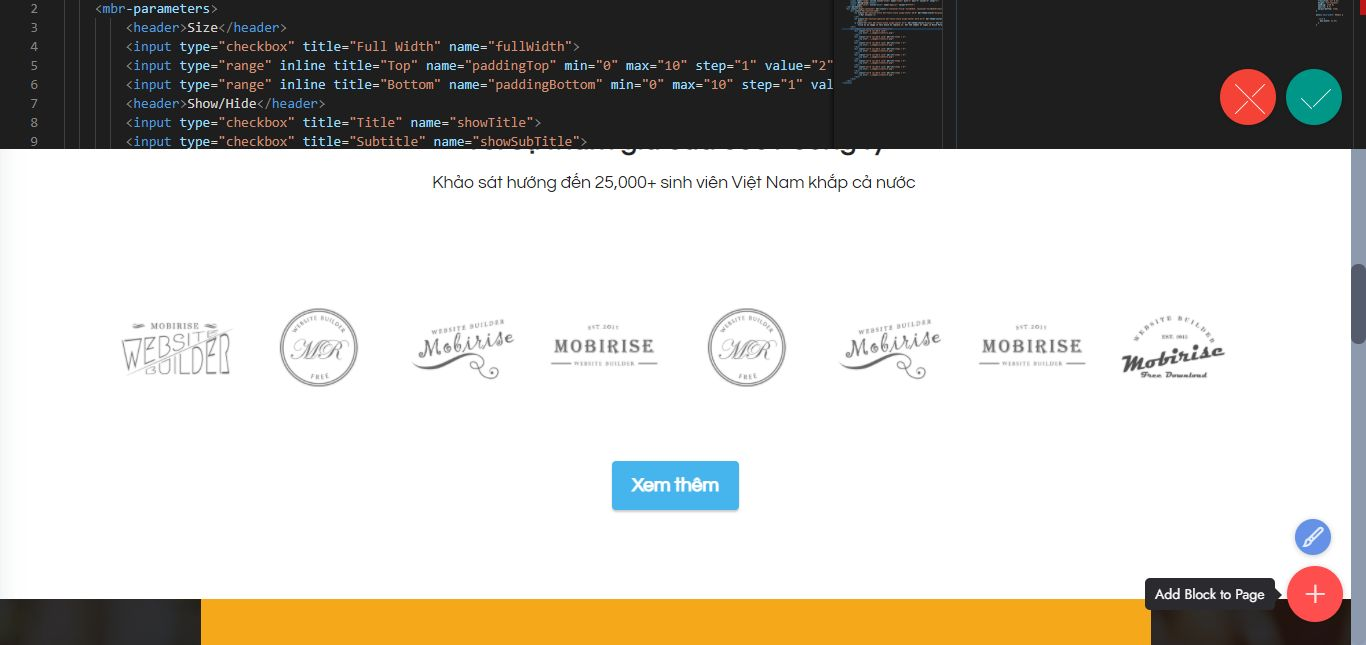
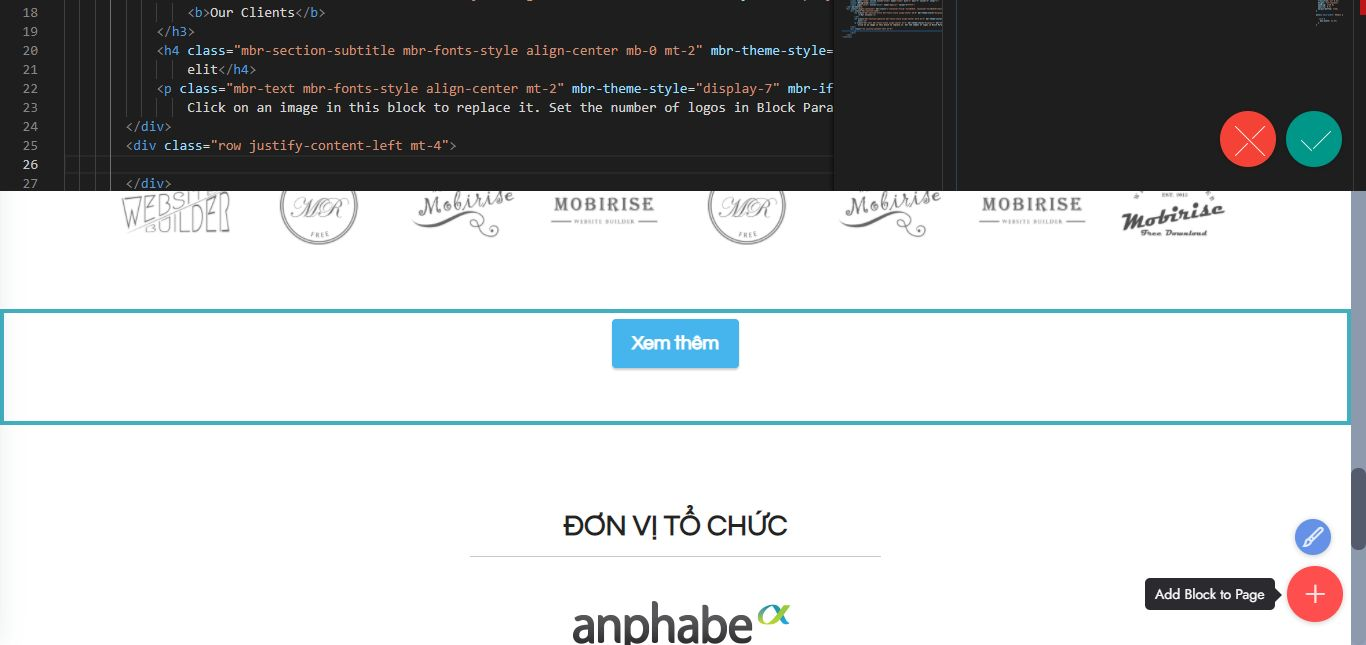
update

diff --git a/index.html b/index.html
@@ -68,8 +68,8 @@ if (
 <meta property="og:url" itemprop="url" content="https://employerofchoice.vn/"/>
 <meta name="title" property="og:title" content="Khảo sát Sinh viên Việt Nam 2022">
 <meta name="description" property="og:description" content="Khảo sát Sinh viên Việt Nam 2022">
-<meta name="twitter:image:src" content="https://employerofchoice.vn/assets/images/share.jpg">
-<meta property="og:image" content="https://employerofchoice.vn/assets/images/share.jpg">
+<meta name="twitter:image:src" content="https://employerofchoice.vn/assets/images/share2.jpg">
+<meta property="og:image" content="https://employerofchoice.vn/assets/images/share2.jpg">
 </head>
 <body>
   <!-- Google Tag Manager (noscript) -->
@@ -178,68 +178,6 @@ height="0" width="0" style="display:none;visibility:hidden"></iframe></noscript>
     </div>
 </section>
 
-<section data-bs-version="5.1" class="content4 cid-sPbRALvVIc" id="thongtindoanhnghiep">
-    
-    
-    <div class="container">
-        <div class="row justify-content-center">
-            <div class="title col-md-12 col-lg-10">
-                <h3 class="mbr-section-title mbr-fonts-style align-center mb-2 display-5"><strong>Với sự tham gia của 350+ công ty</strong></h3>
-                <h4 class="mbr-section-subtitle align-center mbr-fonts-style mb-4 display-7">Khảo sát hướng đến 25,000+ sinh viên Việt Nam khắp cả nước&nbsp;</h4>
-                
-            </div>
-        </div>
-    </div>
-</section>
-
-<section data-bs-version="5.1" class="company-logos cid-sPbUyHSqrw" id="clients1-e">
-    
-    <div class="images-container container">
-        <div class="mbr-section-head">
-            
-            
-            
-        </div>
-        <div class="row justify-content-left mt-4">
-            <div class="col-6 col-md-3 card">
-                <img src="assets/images/1.png">
-            </div>
-            <div class="col-6 col-md-3 card">
-                <img src="assets/images/2.png">
-            </div>
-            <div class="col-6 col-md-3 card">
-                <img src="assets/images/3.png">
-            </div>
-            <div class="col-6 col-md-3 card">
-                <img src="assets/images/4.png">
-            </div>
-            <div class="col-6 col-md-3 card">
-                <img src="assets/images/2.png">
-            </div>
-            <div class="col-6 col-md-3 card">
-                <img src="assets/images/3.png">
-            </div>
-            <div class="col-6 col-md-3 card">
-                <img src="assets/images/4.png">
-            </div>
-            <div class="col-6 col-md-3 card">
-                <img src="assets/images/5.png">
-            </div>
-        </div>
-    </div>
-</section>
-
-<section data-bs-version="5.1" class="content11 cid-sPLHTCDlhn" id="content11-2f">
-    
-    <div class="container">
-        <div class="row justify-content-center">
-            <div class="col-md-12 col-lg-10">
-                <div class="mbr-section-btn align-center"><a class="btn btn-info display-4" href="https://survey.employerofchoice.vn/vi/company-list">Xem thêm</a></div>
-            </div>
-        </div>
-    </div>
-</section>
-
 <section data-bs-version="5.1" class="header6 cid-sPzXg56nly" id="vekhaosat">
 
     
@@ -276,15 +214,15 @@ height="0" width="0" style="display:none;visibility:hidden"></iframe></noscript>
         <div class="row justify-content-center">
             <div class="col-12 col-md-10">
                 
-                <div id="bootstrap-accordion_8" class="panel-group accordionStyles accordion" role="tablist" aria-multiselectable="true">
+                <div id="bootstrap-accordion_5" class="panel-group accordionStyles accordion" role="tablist" aria-multiselectable="true">
                     <div class="card mb-3">
                         <div class="card-header" role="tab" id="headingOne">
-                            <a role="button" class="panel-title collapsed" data-toggle="collapse" data-bs-toggle="collapse" data-core="" href="#collapse1_8" aria-expanded="false" aria-controls="collapse1">
+                            <a role="button" class="panel-title collapsed" data-toggle="collapse" data-bs-toggle="collapse" data-core="" href="#collapse1_5" aria-expanded="false" aria-controls="collapse1">
                                 <h6 class="panel-title-edit mbr-fonts-style mb-0 display-4"><strong>Đối tượng tham gia khảo sát Thương Hiệu Nhà Tuyển Dụng Hấp Dẫn Nhất Với Sinh Viên Việt Nam gồm những ai?</strong></h6>
                                 <span class="sign mbr-iconfont mbri-arrow-down"></span>
                             </a>
                         </div>
-                        <div id="collapse1_8" class="panel-collapse noScroll collapse" role="tabpanel" aria-labelledby="headingOne" data-parent="#accordion" data-bs-parent="#bootstrap-accordion_8">
+                        <div id="collapse1_5" class="panel-collapse noScroll collapse" role="tabpanel" aria-labelledby="headingOne" data-parent="#accordion" data-bs-parent="#bootstrap-accordion_5">
                             <div class="panel-body">
                                 <p class="mbr-fonts-style panel-text display-7">Khảo sát Thương Hiệu Nhà Tuyển Dụng Hấp Dẫn Nhất Với Sinh Viên Việt Nam hướng đến các bạn sinh viên từ năm nhất đến năm cuối tại tất cả các trường Đại học, Cao đẳng trên cả nước. </p>
                             </div>
@@ -292,12 +230,12 @@ height="0" width="0" style="display:none;visibility:hidden"></iframe></noscript>
                     </div>
                     <div class="card mb-3">
                         <div class="card-header" role="tab" id="headingOne">
-                            <a role="button" class="panel-title collapsed" data-toggle="collapse" data-bs-toggle="collapse" data-core="" href="#collapse2_8" aria-expanded="false" aria-controls="collapse2">
+                            <a role="button" class="panel-title collapsed" data-toggle="collapse" data-bs-toggle="collapse" data-core="" href="#collapse2_5" aria-expanded="false" aria-controls="collapse2">
                                 <h6 class="panel-title-edit mbr-fonts-style mb-0 display-4"><strong>Mục đích của khảo sát này là gì?</strong></h6>
                                 <span class="sign mbr-iconfont mbri-arrow-down"></span>
                             </a>
                         </div>
-                        <div id="collapse2_8" class="panel-collapse noScroll collapse" role="tabpanel" aria-labelledby="headingOne" data-parent="#accordion" data-bs-parent="#bootstrap-accordion_8">
+                        <div id="collapse2_5" class="panel-collapse noScroll collapse" role="tabpanel" aria-labelledby="headingOne" data-parent="#accordion" data-bs-parent="#bootstrap-accordion_5">
                             <div class="panel-body">
                                 <p class="mbr-fonts-style panel-text display-7">Khảo sát Thương Hiệu Nhà Tuyển Dụng Hấp Dẫn Nhất Với Sinh Viên Việt Nam nhằm đánh giá sức hấp dẫn của các doanh nghiệp tại thị trường Việt Nam trong mắt các bạn sinh viên trong tình hình mới. Bên cạnh đó, khảo sát cũng hi vọng nhận được chia sẻ chi tiết hơn về những thay đổi trong quá trình định hướng, các nguyện vọng và kỳ vọng của sinh viên Việt Nam cũng như sự sẵn sàng cho công việc đầu tiên sau hai năm ảnh hưởng bởi đại dịch.</p>
                                 <p class="mbr-fonts-style panel-text display-7">Câu trả lời của bạn sẽ đóng góp vào những phân tích quan trọng và cung cấp góc nhìn quý báu giúp doanh nghiệp xây dựng chiến lược và môi trường làm việc thu hút hơn cho chính các bạn, đồng thời quyết định kết quả danh sách những nơi làm việc hấp dẫn nhất với sinh viên Việt Nam 2022.</p>
@@ -306,12 +244,12 @@ height="0" width="0" style="display:none;visibility:hidden"></iframe></noscript>
                     </div>
                     <div class="card mb-3">
                         <div class="card-header" role="tab" id="headingOne">
-                            <a role="button" class="panel-title collapsed" data-toggle="collapse" data-bs-toggle="collapse" data-core="" href="#collapse3_8" aria-expanded="false" aria-controls="collapse3">
+                            <a role="button" class="panel-title collapsed" data-toggle="collapse" data-bs-toggle="collapse" data-core="" href="#collapse3_5" aria-expanded="false" aria-controls="collapse3">
                                 <h6 class="panel-title-edit mbr-fonts-style mb-0 display-4"><strong>Khảo sát này có an toàn và bảo mật không?</strong></h6>
                                 <span class="sign mbr-iconfont mbri-arrow-down"></span>
                             </a>
                         </div>
-                        <div id="collapse3_8" class="panel-collapse noScroll collapse" role="tabpanel" aria-labelledby="headingOne" data-parent="#accordion" data-bs-parent="#bootstrap-accordion_8">
+                        <div id="collapse3_5" class="panel-collapse noScroll collapse" role="tabpanel" aria-labelledby="headingOne" data-parent="#accordion" data-bs-parent="#bootstrap-accordion_5">
                             <div class="panel-body">
                                 <p class="mbr-fonts-style panel-text display-7">Khảo sát Thương Hiệu Nhà Tuyển Dụng Hấp Dẫn Nhất Với Sinh Viên Việt Nam do Anphabe thực hiện trên diện rộng, hoàn toàn độc lập. Mọi câu trả lời trong khảo sát đều được áp dụng quy trình bảo mật thông tin chặt chẽ. </p>
                                 <p class="mbr-fonts-style panel-text display-7">Khảo sát này được bảo trợ bởi Phòng thương mại và công thương Việt Nam (VCCI). Mô hình khảo sát và phương pháp đánh giá của chương trình khảo sát hằng năm đều được kiểm chứng bởi đơn vị thứ ba là công ty nghiên cứu thị trường Intage Việt Nam. </p>
@@ -321,12 +259,12 @@ height="0" width="0" style="display:none;visibility:hidden"></iframe></noscript>
                     </div>
                     <div class="card mb-3">
                         <div class="card-header" role="tab" id="headingOne">
-                            <a role="button" class="panel-title collapsed" data-toggle="collapse" data-bs-toggle="collapse" data-core="" href="#collapse4_8" aria-expanded="false" aria-controls="collapse4">
+                            <a role="button" class="panel-title collapsed" data-toggle="collapse" data-bs-toggle="collapse" data-core="" href="#collapse4_5" aria-expanded="false" aria-controls="collapse4">
                                 <h6 class="panel-title-edit mbr-fonts-style mb-0 display-4"><strong>Quà tặng của khảo sát là gì?</strong></h6>
                                 <span class="sign mbr-iconfont mbri-arrow-down"></span>
                             </a>
                         </div>
-                        <div id="collapse4_8" class="panel-collapse noScroll collapse" role="tabpanel" aria-labelledby="headingOne" data-parent="#accordion" data-bs-parent="#bootstrap-accordion_8">
+                        <div id="collapse4_5" class="panel-collapse noScroll collapse" role="tabpanel" aria-labelledby="headingOne" data-parent="#accordion" data-bs-parent="#bootstrap-accordion_5">
                             <div class="panel-body">
                                 <p class="mbr-fonts-style panel-text display-7">Đáp viên hoàn thành Khảo sát hợp lệ sẽ nhận ngay một (01) mã rút thăm may mắn, với cơ hội sở hữu:</p>
                                 <ul class="list mbr-fonts-style display-7">
@@ -339,12 +277,12 @@ height="0" width="0" style="display:none;visibility:hidden"></iframe></noscript>
                     </div>
                     <div class="card mb-3">
                         <div class="card-header" role="tab" id="headingOne">
-                            <a role="button" class="panel-title collapsed" data-toggle="collapse" data-bs-toggle="collapse" data-core="" href="#collapse5_8" aria-expanded="false" aria-controls="collapse5">
+                            <a role="button" class="panel-title collapsed" data-toggle="collapse" data-bs-toggle="collapse" data-core="" href="#collapse5_5" aria-expanded="false" aria-controls="collapse5">
                                 <h6 class="panel-title-edit mbr-fonts-style mb-0 display-4"><strong>Điều khoản chương trình rút thăm may mắn thế nào?</strong></h6>
                                 <span class="sign mbr-iconfont mbri-arrow-down"></span>
                             </a>
                         </div>
-                        <div id="collapse5_8" class="panel-collapse noScroll collapse" role="tabpanel" aria-labelledby="headingOne" data-parent="#accordion" data-bs-parent="#bootstrap-accordion_8">
+                        <div id="collapse5_5" class="panel-collapse noScroll collapse" role="tabpanel" aria-labelledby="headingOne" data-parent="#accordion" data-bs-parent="#bootstrap-accordion_5">
                             <div class="panel-body">
                                 <p class="mbr-fonts-style panel-text display-7">Đáp viên may mắn sẽ được hệ thống lựa chọn ngẫu nhiên và gửi thông báo về quà tặng qua email đã đăng ký khi tham gia khảo sát. Đáp viên may mắn vui lòng xác nhận thông tin nhận quà qua email trong vòng 03 ngày làm việc kể từ khi nhận thông báo trúng thưởng của Ban tổ chức.</p>
                                 <p class="mbr-fonts-style panel-text display-7">Việc quay số may mắn được thực hiện vào thứ 6 hằng tuần và kết quả được thông báo trên kênh Facebook chính thức của Anphabe: <a href="https://www.facebook.com/anphabe" class="text-primary" target="_blank">https://www.facebook.com/anphabe</a></p>
@@ -360,12 +298,12 @@ height="0" width="0" style="display:none;visibility:hidden"></iframe></noscript>
                     </div>
                     <div class="card mb-3">
                         <div class="card-header" role="tab" id="headingOne">
-                            <a role="button" class="panel-title collapsed" data-toggle="collapse" data-bs-toggle="collapse" data-core="" href="#collapse6_8" aria-expanded="false" aria-controls="collapse6">
+                            <a role="button" class="panel-title collapsed" data-toggle="collapse" data-bs-toggle="collapse" data-core="" href="#collapse6_5" aria-expanded="false" aria-controls="collapse6">
                                 <h6 class="panel-title-edit mbr-fonts-style mb-0 display-4"><strong>Đối tượng tham gia chương trình rút thăm may mắn là những ai?</strong></h6>
                                 <span class="sign mbr-iconfont mbri-arrow-down"></span>
                             </a>
                         </div>
-                        <div id="collapse6_8" class="panel-collapse noScroll collapse" role="tabpanel" aria-labelledby="headingOne" data-parent="#accordion" data-bs-parent="#bootstrap-accordion_8">
+                        <div id="collapse6_5" class="panel-collapse noScroll collapse" role="tabpanel" aria-labelledby="headingOne" data-parent="#accordion" data-bs-parent="#bootstrap-accordion_5">
                             <div class="panel-body">
                                 <p class="mbr-fonts-style panel-text display-7">
                                     Tất cả đáp viên hoàn thành khảo sát hợp lệ đều có cơ hội tham gia chương trình quay số may mắn diễn ra hàng tuần và hàng tháng. Đáp viên may mắn nhận giải thưởng tuần vẫn có cơ hội tham dự và trúng giải thưởng tháng.</p>
@@ -374,12 +312,12 @@ height="0" width="0" style="display:none;visibility:hidden"></iframe></noscript>
                     </div>
                     <div class="card mb-3">
                         <div class="card-header" role="tab" id="headingOne">
-                            <a role="button" class="panel-title collapsed" data-toggle="collapse" data-bs-toggle="collapse" data-core="" href="#collapse7_8" aria-expanded="false" aria-controls="collapse7">
+                            <a role="button" class="panel-title collapsed" data-toggle="collapse" data-bs-toggle="collapse" data-core="" href="#collapse7_5" aria-expanded="false" aria-controls="collapse7">
                                 <h6 class="panel-title-edit mbr-fonts-style mb-0 display-4"><strong>Vì sao hoàn thành khảo sát nhưng chưa nhận được email?</strong></h6>
                                 <span class="sign mbr-iconfont mbri-arrow-down"></span>
                             </a>
                         </div>
-                        <div id="collapse7_8" class="panel-collapse noScroll collapse" role="tabpanel" aria-labelledby="headingOne" data-parent="#accordion" data-bs-parent="#bootstrap-accordion_8">
+                        <div id="collapse7_5" class="panel-collapse noScroll collapse" role="tabpanel" aria-labelledby="headingOne" data-parent="#accordion" data-bs-parent="#bootstrap-accordion_5">
                             <div class="panel-body">
                                 <p class="mbr-fonts-style panel-text display-7">Sau khi hoàn thành khảo sát hợp lệ, Anphabe sẽ gửi thông báo kết quả và mã rút thăm may mắn qua email mà đáp viên đã đăng ký ở bước hoàn thành khảo sát. Bạn kiểm tra trong hộp thư rác (spam), quảng cáo và có thể tìm kiếm từ khóa "Anphabe Team" trong hộp email.</p>
                                 <p class="mbr-fonts-style panel-text display-7">Nếu vẫn chưa thấy, bạn vui lòng để lại thông tin email qua hộp thư trên Fanpage, Anphabe sẽ kiểm tra hệ thống và hỗ trợ bạn chi tiết.</p>
@@ -387,6 +325,45 @@ height="0" width="0" style="display:none;visibility:hidden"></iframe></noscript>
                         </div>
                     </div>
                 </div>
+            </div>
+        </div>
+    </div>
+</section>
+
+<section data-bs-version="5.1" class="content4 cid-sPbRALvVIc" id="thongtindoanhnghiep">
+    
+    
+    <div class="container">
+        <div class="row justify-content-center">
+            <div class="title col-md-12 col-lg-10">
+                <h3 class="mbr-section-title mbr-fonts-style align-center mb-2 display-5"><strong>Với sự tham gia của 350+ công ty</strong></h3>
+                <h4 class="mbr-section-subtitle align-center mbr-fonts-style mb-4 display-7">Khảo sát hướng đến 25,000+ sinh viên Việt Nam khắp cả nước&nbsp;</h4>
+                
+            </div>
+        </div>
+    </div>
+</section>
+
+<section data-bs-version="5.1" class="company-logos cid-sPbUyHSqrw" id="clients1-e">
+    
+    <div class="images-container container">
+        <div class="mbr-section-head">
+            
+            
+            
+        </div>
+        <div class="row justify-content-left mt-4">
+            
+        </div>
+    </div>
+</section>
+
+<section data-bs-version="5.1" class="content11 cid-sPLHTCDlhn" id="content11-2f">
+    
+    <div class="container">
+        <div class="row justify-content-center">
+            <div class="col-md-12 col-lg-10">
+                <div class="mbr-section-btn align-center"><a class="btn btn-info display-4" href="https://survey.employerofchoice.vn/vi/company-list">Xem thêm</a></div>
             </div>
         </div>
     </div>

diff --git a/assets/mobirise/css/mbr-additional.css b/assets/mobirise/css/mbr-additional.css
@@ -1120,37 +1120,6 @@ a {
     padding: 2rem;
   }
 }
-.cid-sPbRALvVIc {
-  padding-top: 5rem;
-  padding-bottom: 0rem;
-  background-color: #ffffff;
-}
-.cid-sPbUyHSqrw {
-  padding-top: 2rem;
-  padding-bottom: 2rem;
-  background-color: #ffffff;
-}
-.cid-sPbUyHSqrw img {
-  width: 120px;
-  margin: auto;
-}
-.cid-sPbUyHSqrw .card {
-  transition: all 0.3s;
-  height: fit-content;
-  padding: 1rem 0;
-  opacity: 0.7;
-  margin-bottom: 1rem;
-}
-@media (min-width: 992px) {
-  .cid-sPbUyHSqrw .card {
-    max-width: 12.5%;
-  }
-}
-.cid-sPLHTCDlhn {
-  padding-top: 0rem;
-  padding-bottom: 5rem;
-  background-color: #ffffff;
-}
 .cid-sPzXg56nly {
   padding-top: 0;
   padding-bottom: 6rem;
@@ -1244,6 +1213,37 @@ a {
     padding-top: 3rem;
     padding-bottom: 0.15rem;
   }
+}
+.cid-sPbRALvVIc {
+  padding-top: 0rem;
+  padding-bottom: 0rem;
+  background-color: #ffffff;
+}
+.cid-sPbUyHSqrw {
+  padding-top: 2rem;
+  padding-bottom: 2rem;
+  background-color: #ffffff;
+}
+.cid-sPbUyHSqrw img {
+  width: 120px;
+  margin: auto;
+}
+.cid-sPbUyHSqrw .card {
+  transition: all 0.3s;
+  height: fit-content;
+  padding: 1rem 0;
+  opacity: 0.7;
+  margin-bottom: 1rem;
+}
+@media (min-width: 992px) {
+  .cid-sPbUyHSqrw .card {
+    max-width: 12.5%;
+  }
+}
+.cid-sPLHTCDlhn {
+  padding-top: 0rem;
+  padding-bottom: 3rem;
+  background-color: #ffffff;
 }
 .cid-sPc4eZQ7aa {
   padding-top: 5rem;

diff --git a/thongtinquatang.html b/thongtinquatang.html
@@ -67,8 +67,8 @@ if (
 <meta property="og:url" itemprop="url" content="https://employerofchoice.vn/"/>
 <meta name="title" property="og:title" content="Thông tin quà tặng | Khảo sát Sinh viên Việt Nam 2022">
 <meta name="description" property="og:description" content="Thông tin quà tặng | Khảo sát Sinh viên Việt Nam 2022">
-<meta name="twitter:image:src" content="https://employerofchoice.vn/assets/images/share.jpg">
-<meta property="og:image" content="https://employerofchoice.vn/assets/images/share.jpg">
+<meta name="twitter:image:src" content="https://employerofchoice.vn/assets/images/share2.jpg">
+<meta property="og:image" content="https://employerofchoice.vn/assets/images/share2.jpg">
 </head>
 <body>
   <!-- Google Tag Manager (noscript) -->
